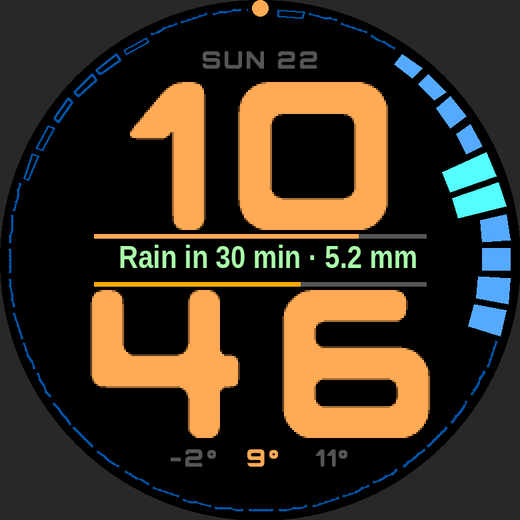
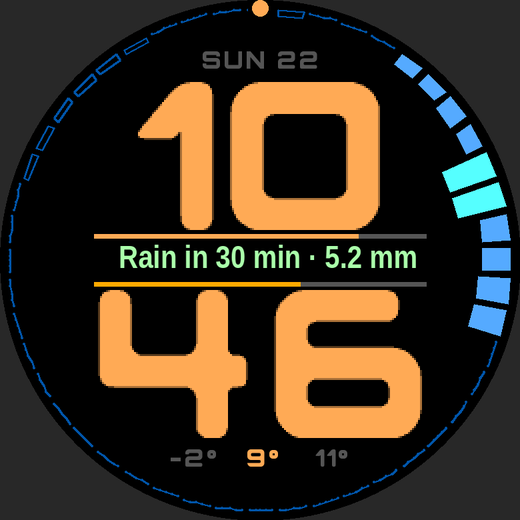
Tighter clock: 3 px between the two digits (Maurin's pick)
Claude-Session: https://claude.ai/code/session_015HmYPjfyQ65s3v6ZviQxa9

diff --git a/src/c/draw.c b/src/c/draw.c
@@ -360,9 +360,9 @@ void draw_face(Layer *layer, GContext *ctx) {
   // CAP is the digit height (the height of the digit images), GAP the space
   // between two digits.
 #ifdef PBL_ROUND
-  const int CAP = 74, GAP = 11, MAX_W = 192, BAR_W = 166;
+  const int CAP = 74, GAP = 3, MAX_W = 192, BAR_W = 166;
 #else
-  const int CAP = 78, GAP = 12, MAX_W = 160, BAR_W = 174;
+  const int CAP = 78, GAP = 3, MAX_W = 160, BAR_W = 174;
 #endif
   const int HALF = 15;                 // centre line to the digits
   const int SMALL_CAP = 9, SMALL_PAD = 4, SMALL_GAP = 6;
